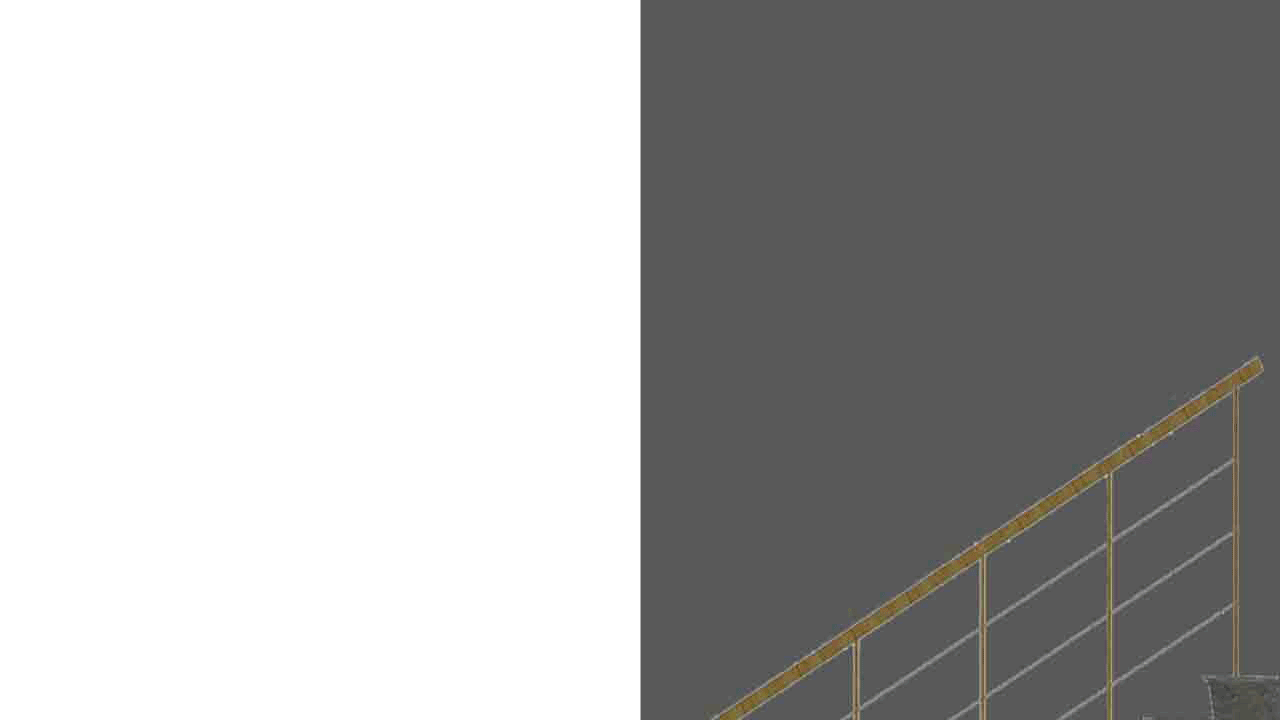
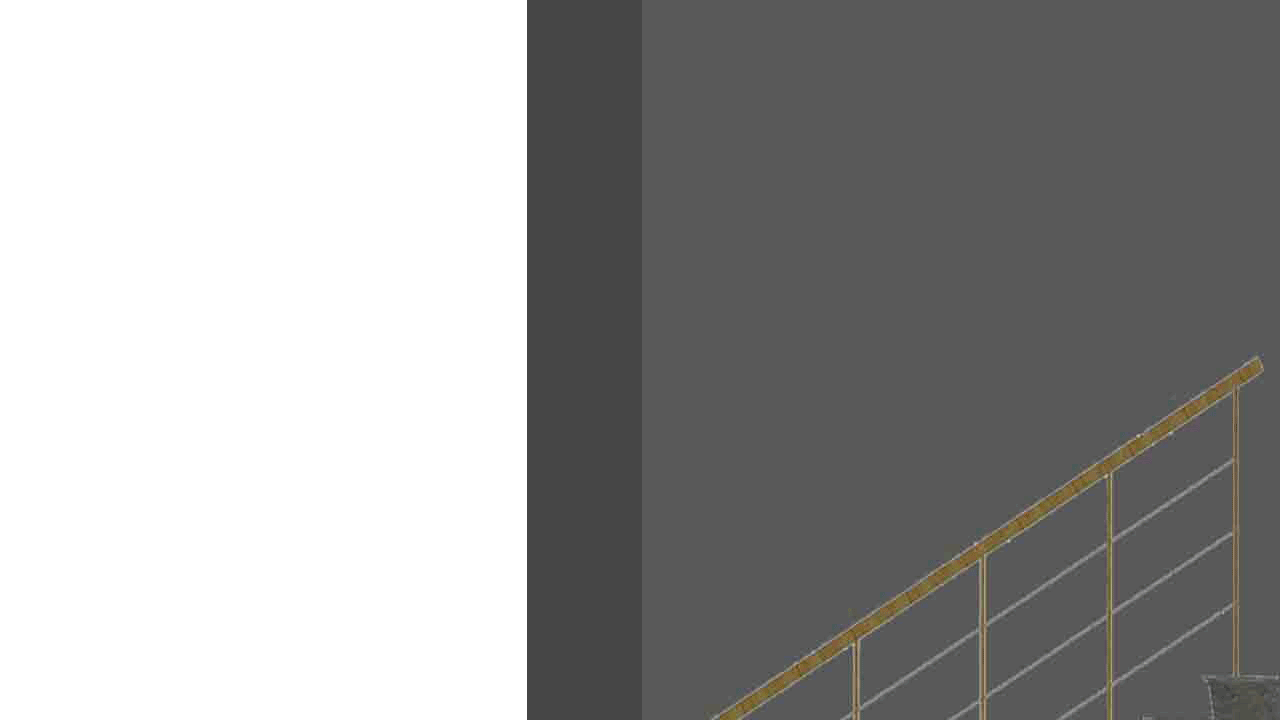
dialogue

Changed region(s): [[0.4062, 0.0, 0.5, 1.0]]

diff --git a/js/main.js b/js/main.js
@@ -20,21 +20,29 @@ var run = setInterval(function() {
 
 
 function logic() {
-	time_keeper();
+	if (gameState == state_PAUSED) logic_PAUSED();
 	if (gameState == state_EXPLORE) logic_EXPLORE();
+	if (gameState == state_CONVERSATION) logic_CONVERSATION();
 	
 
 }
 
 function logic_EXPLORE() {
-
+	time_keeper();
 	player.update(controls.states);
 	for (var i=0;i<AI_array.length;i++) AI_array[i].update();
 	
-	camera.render(player,mansion);
+	camera.render_EXPLORE(player,mansion);
 
-	
-	
+};
+
+function logic_PAUSED() {
+	camera.ctx.fillStyle = "#ff0000";
+	camera.ctx.fillText('PAUSED',camera.width/2.3,camera.height/2);
+};
+
+function logic_CONVERSATION() {
+	camera.render_CONVERSATION();
 
 }
 
@@ -59,7 +67,8 @@ function Map(length, floors, grid) {
 		new Bitmap('./assets/right-top-stair.png',1280,720),    // 2
 		new Bitmap('./assets/left-bottom-stair.png',1280,720),  // 3
 		new Bitmap('./assets/left-top-stair.png',1280,720),     // 4
-		new Bitmap('./assets/floor-sprites.jpg',1280,93)        // 5
+		new Bitmap('./assets/end-left-wall.png',1280,720),      // 5
+		new Bitmap('./assets/end-right-wall.png',1280,720)      // 6
 		];
 };
 
@@ -73,6 +82,7 @@ function Player (x,y,direction) {
     this.texture = new Bitmap('./assets/walking-guy.png',2000,800);
     this.sprite = [0,200,400,600,800,1000,1200,1400,1600,1800];
     this.seg = 0;
+    this.converse = false;
 };
 
 var hold=false;
@@ -102,15 +112,31 @@ Player.prototype.walk = function(distance) {
 		
 };
 
+Player.prototype.interact = function() {
+	for (var i=0;i<AI_array.length;i++) {
+		if (AI_array[i].y==this.y && (AI_array[i].x-this.x)*this.direction<=.2 && (AI_array[i].x-this.x)*this.direction > 0) {
+			this.seg=0;
+			AI_array[i].direction = this.direction*-1;
+			AI_array[i].seg = 0;
+			// camera.drawDialogueBox();
+			this.converse = AI_array[i].dialogue;
+
+			gameState = state_CONVERSATION;
+			
+		}
+	}
+}
+
 Player.prototype.update = function(controls) {
-    if (controls.right) this.walk(.01),this.direction=1;
-    if (controls.left) this.walk(-.01),this.direction=-1;
+    if (controls.right && gameState == state_EXPLORE) this.walk(.01),this.direction=1;
+    if (controls.left && gameState == state_EXPLORE) this.walk(-.01),this.direction=-1;
     if (!controls.left && !controls.right) this.seg=0;
+    if (controls.up && gameState == state_EXPLORE) this.interact(), controls.up=false;
 };
 
 //################ AI #################//
 
-function AI (x,y,direction,texture) {
+function AI (x,y,direction,texture,dialogue) {
 	this.x = x;
 	this.x = x;
     this.y = y;
@@ -118,6 +144,7 @@ function AI (x,y,direction,texture) {
     this.texture = texture;
     this.sprite = [0,200,400,600,800,1000,1200,1400,1600,1800];
     this.seg = 0;
+    this.dialogue = dialogue;
 }
 
 AI.prototype.walk = function(distance) {
@@ -145,12 +172,12 @@ AI.prototype.walk = function(distance) {
 }
 
 AI.prototype.update = function() {
-    if (time[1]%2==0) {
-    	this.walk(.005),this.direction=1;
-    }
-    else {
-		this.walk(-.005),this.direction=-1;
-    }
+  //   if (time[1]%2==0) {
+  //   	this.walk(.005),this.direction=1;
+  //   }
+  //   else {
+		// this.walk(-.005),this.direction=-1;
+  //   }
 };
 
 
@@ -190,9 +217,31 @@ function Camera(ctx) {
     this.height = canvas.height = canvas.width/(16/9);
     this.viewHeight = 0; //controls height of scene in viewport
     this.rgb = [180,180,255];
+    this.dialogueBox = false;
 }
 
-Camera.prototype.render = function(player, map) { 
+// ################ CAMERA CONVERSATION ############### //
+
+Camera.prototype.render_CONVERSATION = function() {
+	if (!this.dialogueBox) this.drawDialogueBox(), this.dialogueBox=true;
+	this.drawLetters(player.converse)
+}
+
+Camera.prototype.drawDialogueBox = function() {
+	this.ctx.fillStyle = "#000000";
+	this.ctx.strokeStyle = "#ffffff";
+	this.ctx.rect(2,2,this.width-4,this.height/3);
+	this.ctx.fill();
+	this.ctx.stroke();
+}
+
+Camera.prototype.drawLetters = function(dialogue) {
+	var saying = dialogue.split('');
+}
+
+// ################ CAMERA EXPLORE ############### //
+
+Camera.prototype.render_EXPLORE = function(player, map) { 
 	this.drawBackground(player.y,time);
     this.drawRoom(player.x,player.y, map.grid);
     this.drawAI(player.x,player.y, AI_array);
@@ -214,6 +263,7 @@ Camera.prototype.drawPlayer = function (x,direction,sprite,seg,location) {
 };
 
 Camera.prototype.drawAI = function (x,y,array) {
+
 	for (var i=0;i<array.length;i++) {
 		if (array[i].y==y && array[i].x < x+1 && array[i].x > x-1) {
 			var texture = array[i].texture;
@@ -302,23 +352,6 @@ Camera.prototype.drawBackground = function() {
 };
 
 
-//############# STARTING VARIABLES ################//
 
-var mansion = new Map (5,4, [0,
-	0,0,0,0,2,
-	4,0,0,0,1,
-	3,0,0,0,2,
-	0,0,0,0,1
-	]);
-var player = new Player(5,3,1);
-var camera = new Camera(canvas);
-var controls = new Controls();
-
-var cornelia_cornhowser = new AI(3.3,3,1,new Bitmap('./assets/walking-guy.png',2000,800));
-
-var sunuel_sunflower = new AI(2.7,3,1,new Bitmap('./assets/walking-guy.png',2000,800));
-
-
-var AI_array = [cornelia_cornhowser,sunuel_sunflower];
 
 

diff --git a/index.html b/index.html
@@ -14,7 +14,24 @@
 	<script src="js/main.js"></script>
 	
 	<script type="text/javascript">
-		
+		//############# STARTING VARIABLES ################//
+
+		var mansion = new Map (5,4, [0,
+			5,0,0,0,2,
+			4,0,0,0,1,
+			3,0,0,0,2,
+			5,0,0,0,1
+			]);
+		var player = new Player(2,3,1);
+		var camera = new Camera(canvas);
+		var controls = new Controls();
+
+		var cornelia_cornhowser = new AI(3.3,3,1,new Bitmap('./assets/walking-guy.png',2000,800),"Hello there");
+
+		var sunuel_sunflower = new AI(2.7,3,1,new Bitmap('./assets/walking-guy.png',2000,800),"Howdy partner");
+
+
+		var AI_array = [cornelia_cornhowser,sunuel_sunflower];
 		// init();
 	</script>
 
